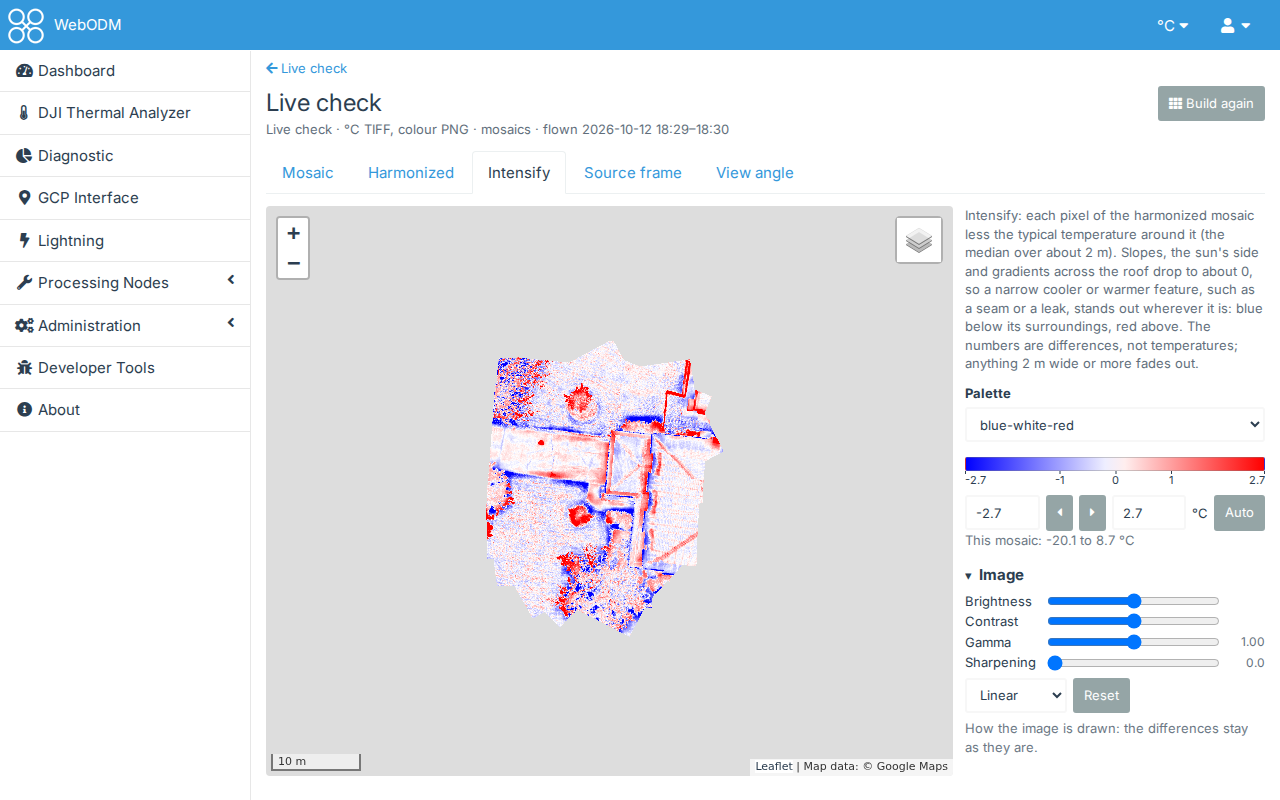
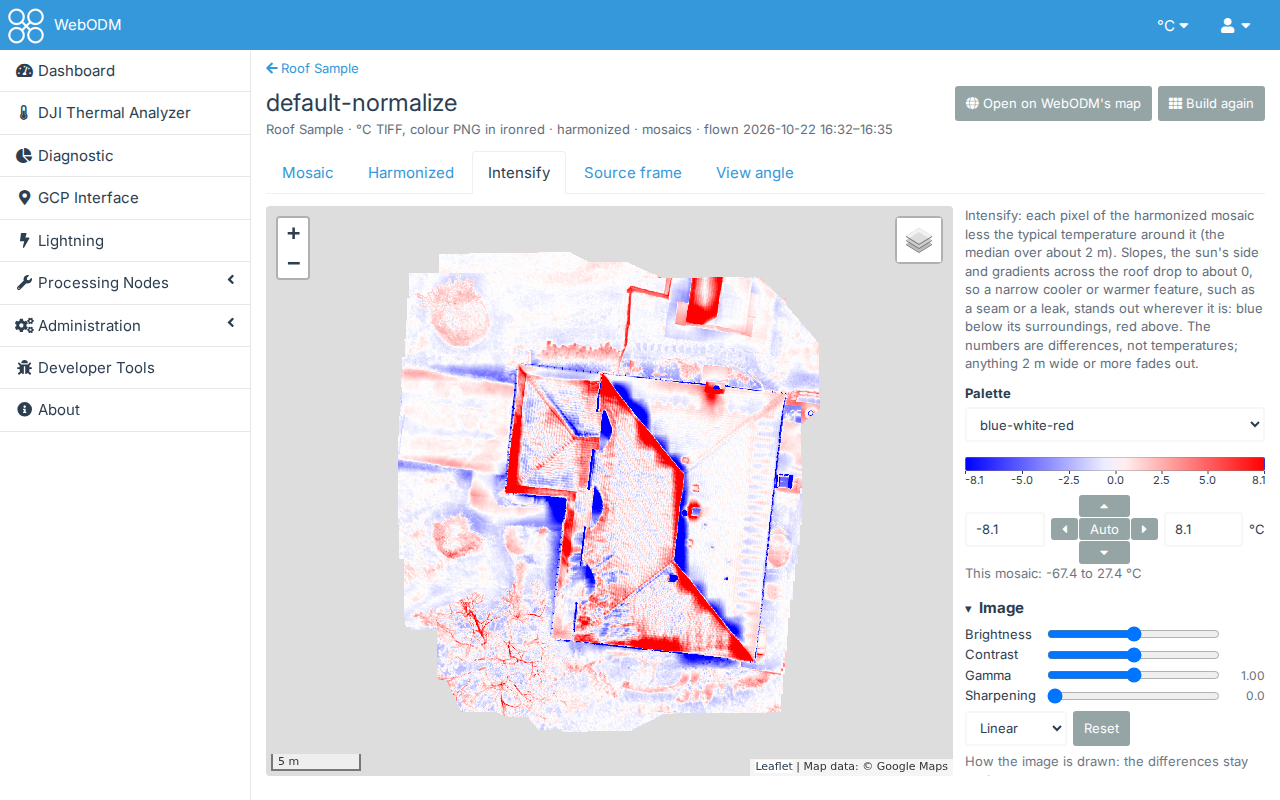
Docs: mosaic-intensify.png retaken with the range's D-pad

diff --git a/upcoming-changes.md b/upcoming-changes.md
@@ -43,9 +43,9 @@
   frame page's downloads', not every TIFF's (the form's help in `conversions.js`, measurement.md, palettes.md,
   quickstart-worksets, README); troubleshooting gained the Administration page's "dji-thermal-cli cannot be loaded" and
   images refused while a workset converts; converted-images gained `NormalizationOffsetC`; developing.md's Convert
-  tab is the Worksets tab. The eleven screenshots older than the last UI changes retaken (seven changed). Open:
-  mosaic-intensify.png still shows the range's old arrows, until a workset on the dev server has an Intensify
-  mosaic (building one writes the user's data).
+  tab is the Worksets tab. The eleven screenshots older than the last UI changes retaken (seven changed). mosaic-intensify.png
+  retaken on 2026-11-09 with the D-pad, after the user had the mosaics of "default-normalize" built again (it then
+  had an Intensify mosaic).
 - **R9. The range's arrows as a D-pad** (the user, 2026-11-08, in `new.md`): "Regarding the temperature range/scale
   control arrows. Replace them with a 5 button D-Pad style arrangement with Auto button moved into the center button's
   place. The Left arrow button Narrows the range as the current narrow button functions now, same for the Expand/right
